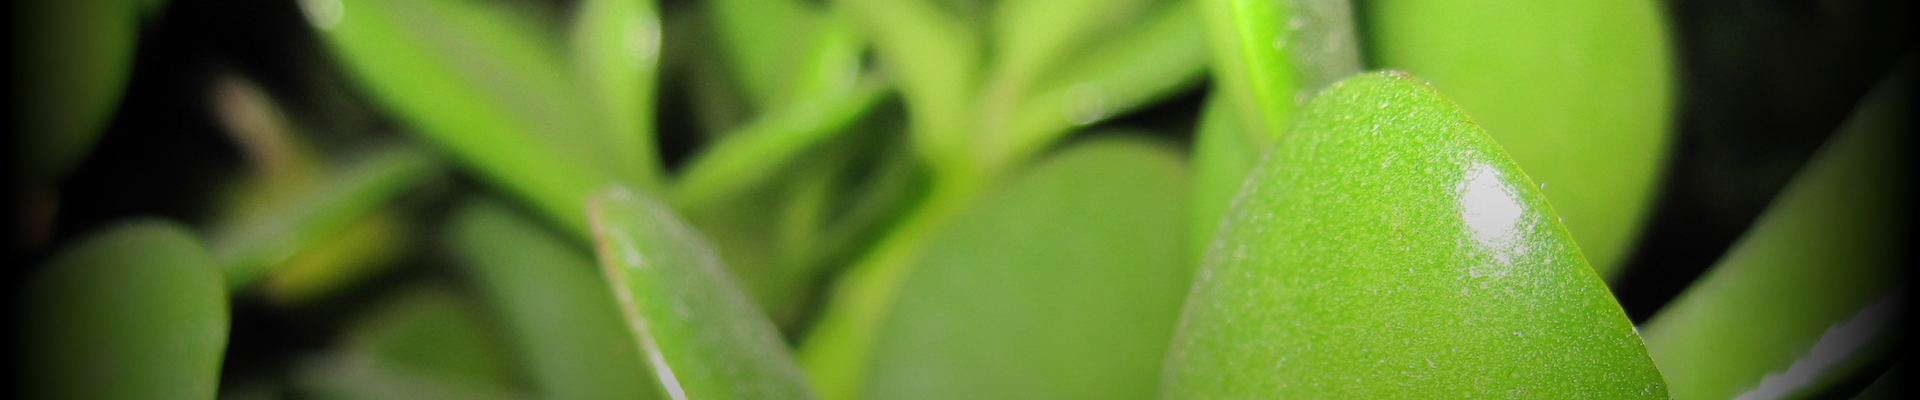
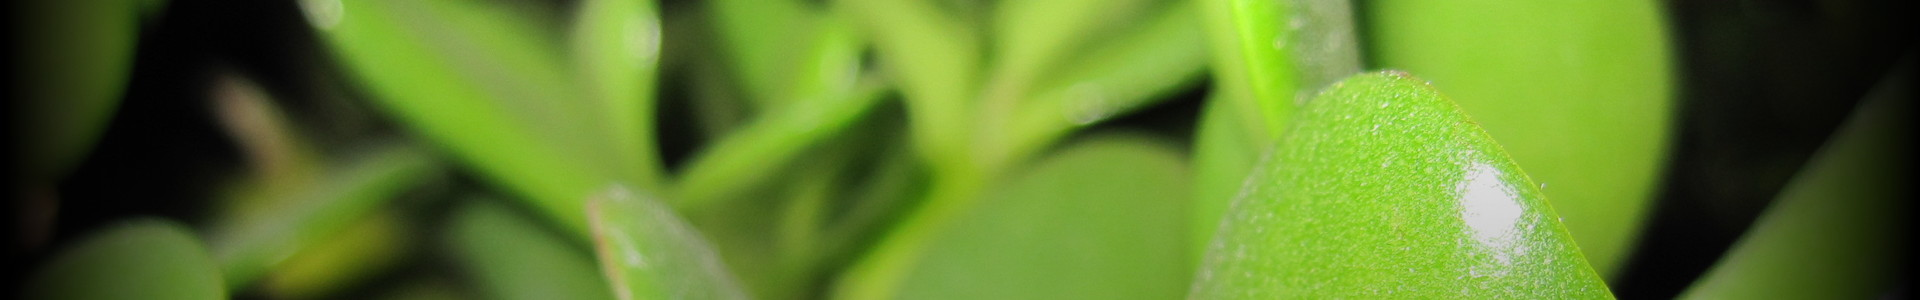
trim header

diff --git a/style.css b/style.css
@@ -44,7 +44,7 @@ z-index:-100;
 text-align:center;
 position:absolute;
 background:black;
-height:400px;
+height:300px;
 width:100%;
 /*
 must stay as an image rather than background so onload fade works.
@@ -64,7 +64,7 @@ font-size: 20px;
 padding:7px 0 5px 0;
 background:#000 repeat-x;
 display:block;
-top:400px;
+top:300px;
 width:100%;
 }
 
@@ -110,7 +110,7 @@ border-top-color:black;
 .articles
 {
 position:absolute;
-top:530px;
+top:430px;
 width:1000px;
 left:50%;
 margin-left:-500px;
@@ -164,7 +164,7 @@ margin:50px;
 font-family: 'Arimo', sans-serif;
 color:white;
 text-transform:uppercase;
-padding:130px 0 0 0;
+padding:80px 0 0 0;
 letter-spacing:10px;
 }
 

diff --git a/ideas.md b/ideas.md
@@ -6,6 +6,8 @@ mobile site
 xml sitemap
 pack all JS
 litter profile with logos from products, uni, companies, used and created
+to less.css 
+make file for CSS and JS
 with disclaimer
 gravatar avatar
 popovers for article links http://onehackoranother.com/projects/jquery/tipsy/#options
